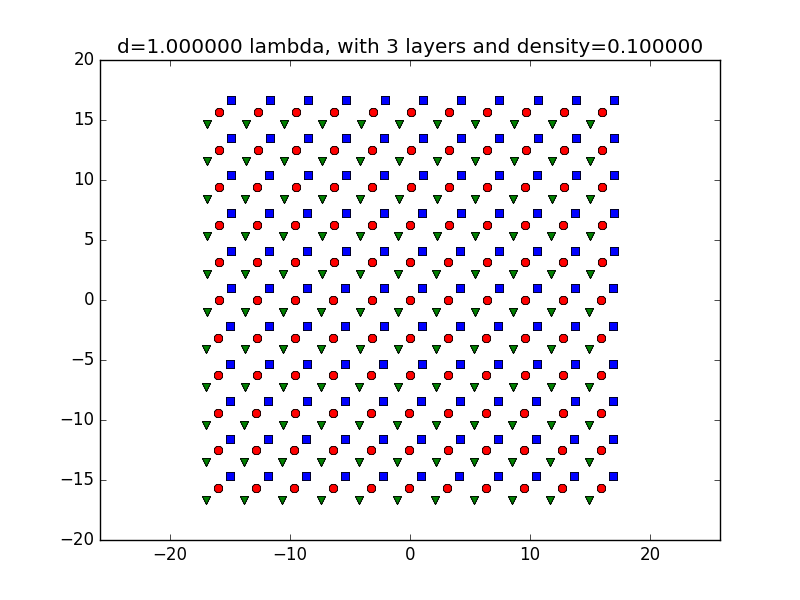
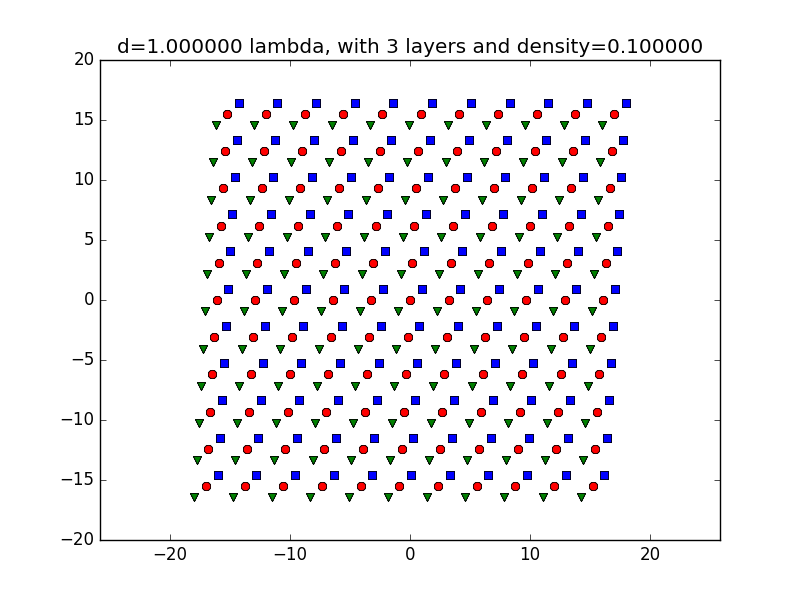
Bug Fix

diff --git a/Genetic_Lattice/main.cpp b/Genetic_Lattice/main.cpp
@@ -25,11 +25,11 @@ double d=lambda*1;
 int n=100;
 double gen_i=1;
 int const bitlen=10;
-const double density=0.1;
+const double density=10;
 
 int const layers=3;
 
-double rcut=lambda*10;
+double rcut=lambda*5;
 //int kmax=15;
 //int lmax=15;
 
@@ -1028,7 +1028,7 @@ int main(){
         //gen.printIndiv();
         Climber climb;
         vector<double> top= climb.hillclimb(best.getX(),best.getPhi(),fit,best.getCx(),best.getCy(),best.getH());
-        cout<<endl<<endl<<"After he climbed the hill:"<<endl<<"X="<<top[0]<<endl<<"Phi="<<top[1]*180/PI<<endl<<"a="<<(1./sqrt(density*top[0]*sin(top[1])))<<endl<<"cX="<<top[2]<<endl<<"cY="<<top[3]<<endl<<"Fitness="<<fit(top[0],top[1],false,top[2],top[3])<<endl;
+        cout<<endl<<endl<<"After he climbed the hill:"<<endl<<"X="<<top[0]<<endl<<"Phi="<<top[1]*180/PI<<endl<<"a="<<(1./sqrt(density*top[0]*sin(top[1])))<<endl<<"cX="<<top[2]<<endl<<"cY="<<top[3]<<endl<<"Fitness="<<fit(top[0],top[1],false,top[2],top[3],best.getH())<<endl;
 
         string plotname="crystall";
         plotname+=to_string(j);
